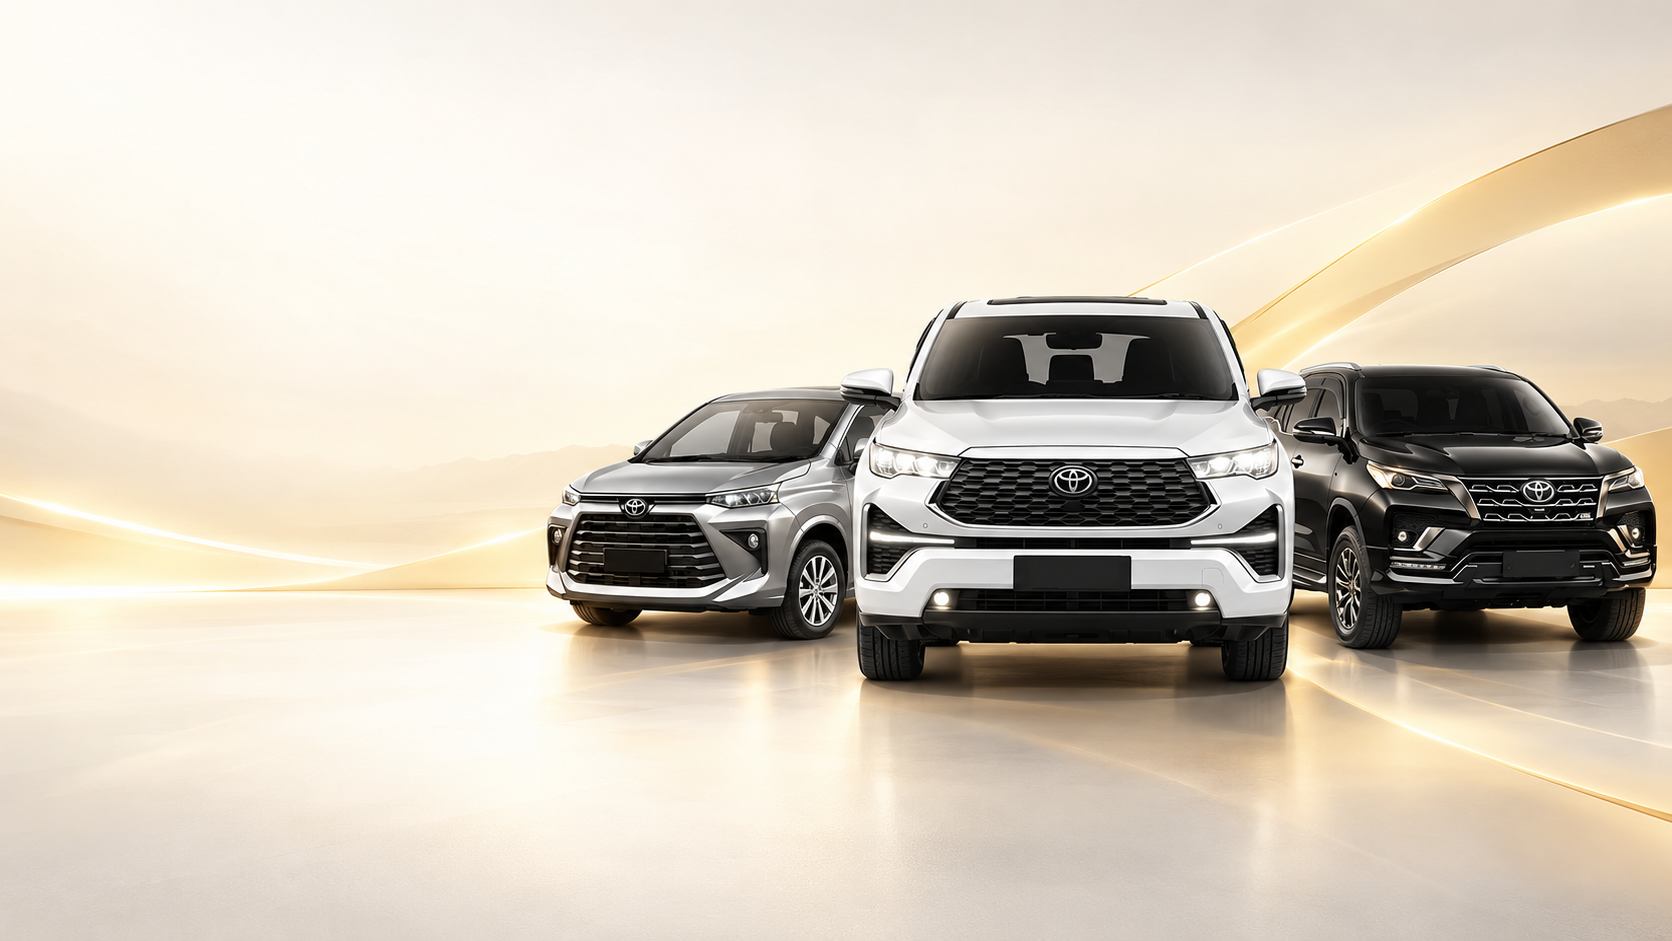
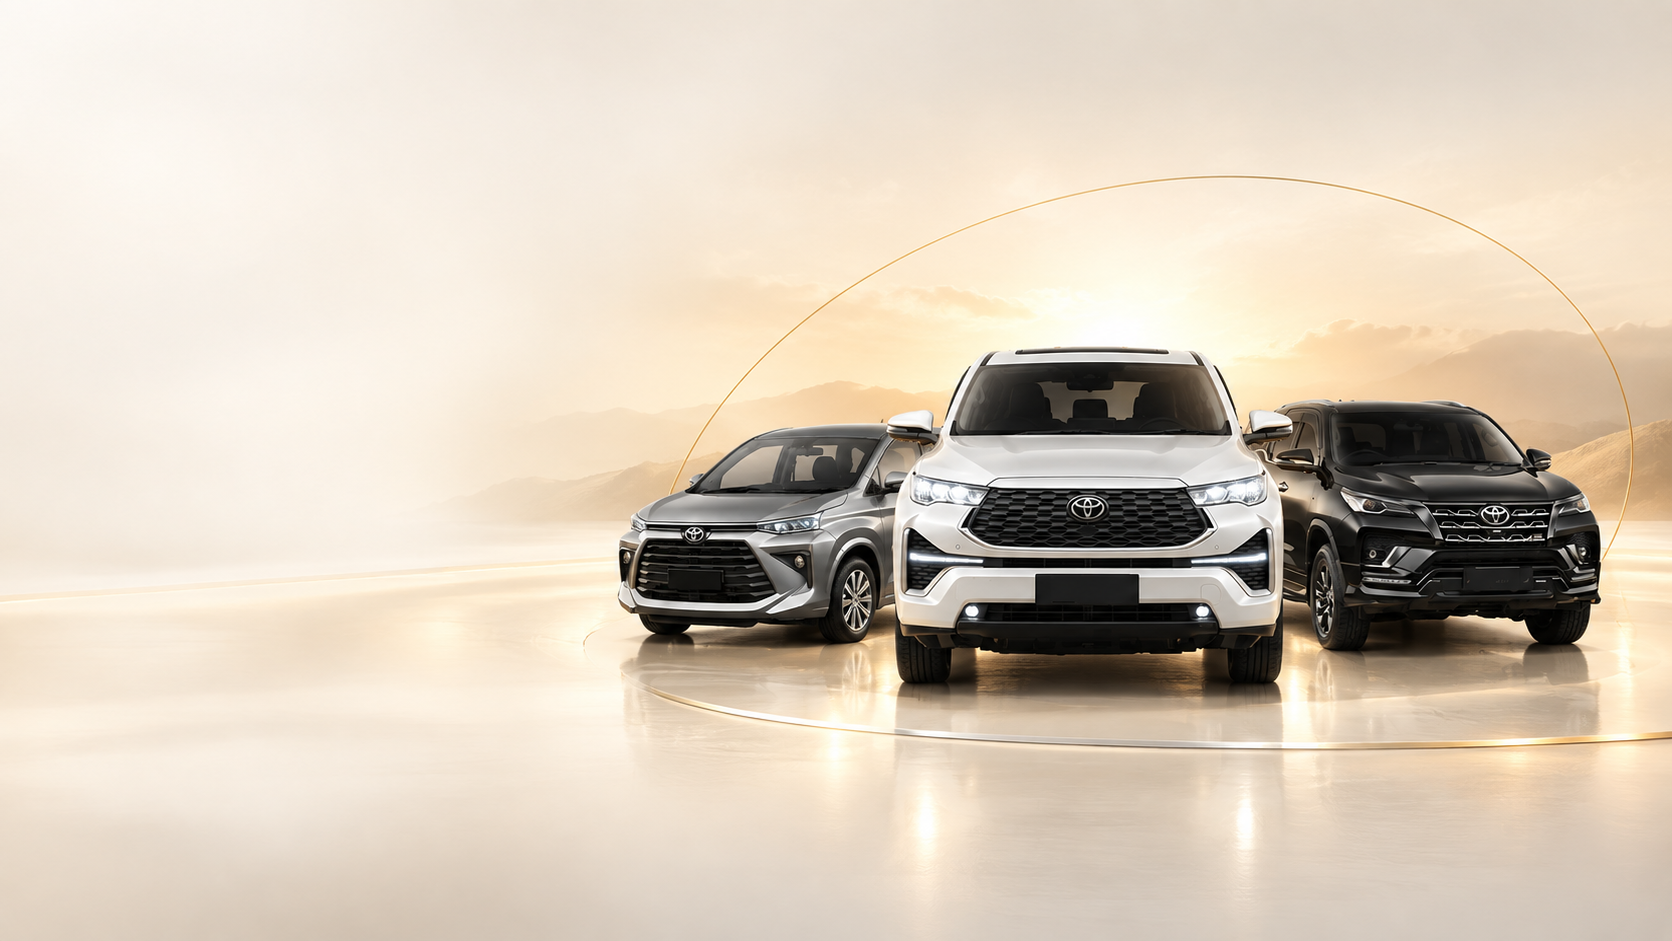
Update hero background images for desktop and mobile with refined halo composition

diff --git a/src/components/Hero.tsx b/src/components/Hero.tsx
@@ -2,79 +2,73 @@ import React from "react";
 
 export const Hero = () => {
   return (
-    <section className="bg-[#FBFAF7] border-b border-[#E8E4DB] relative overflow-hidden pt-8 pb-12 sm:pt-12 sm:pb-16 lg:py-16 xl:py-20">
-      <div className="max-w-7xl mx-auto px-5 sm:px-6 lg:px-8">
-        <div className="flex flex-col lg:flex-row items-center lg:items-end justify-between gap-8 sm:gap-10 lg:gap-8">
-          {/* Left Column: 43% on Desktop */}
-          <div className="w-full lg:w-[43%] shrink-0 text-left">
-            {/* Eyebrow */}
-            <p className="font-cinzel text-xs sm:text-sm font-bold tracking-widest text-[#B8892E] uppercase mb-3 sm:mb-4">
-              ZAHRAFFAMIRA RENTAL MOBIL
-            </p>
+    <section className="relative overflow-hidden bg-[#FBFAF7] border-b border-[#E8E4DB] min-h-[660px] sm:min-h-[720px] lg:min-h-[640px] xl:min-h-[720px] flex items-center">
+      {/* Responsive Background Images */}
+      <picture className="absolute inset-0 -z-10 w-full h-full pointer-events-none select-none">
+        <source media="(min-width: 1024px)" srcSet="/images/hero-bg-desktop.png" />
+        <img
+          src="/images/hero-bg-mobile.png"
+          alt="Armada ZAHRAFFAMIRA Rental Mobil Banjarmasin - Avanza, Innova Zenix, Fortuner"
+          className="w-full h-full object-cover object-top lg:object-center"
+          loading="eager"
+        />
+      </picture>
 
-            {/* Heading */}
-            <h1 className="font-manrope text-3xl sm:text-4xl lg:text-[40px] xl:text-[46px] font-extrabold text-[#171717] leading-[1.2] sm:leading-[1.18] tracking-tight mb-4 sm:mb-5">
-              Rental Mobil Banjarmasin{" "}
-              <span className="text-[#B8892E] block mt-1 sm:mt-1.5">
-                Nyaman untuk Setiap Perjalanan.
-              </span>
-            </h1>
+      {/* Subtle readability gradient overlays */}
+      {/* Desktop: Gentle fade on the left 48% to guarantee maximum text contrast */}
+      <div
+        className="absolute inset-0 -z-5 hidden lg:block bg-gradient-to-r from-[#FBFAF7]/92 via-[#FBFAF7]/50 to-transparent w-[48%] pointer-events-none"
+        aria-hidden="true"
+      />
+      {/* Mobile: Gentle fade on top 52% so headline and CTAs are crisp while cars below shine */}
+      <div
+        className="absolute inset-0 -z-5 lg:hidden bg-gradient-to-b from-[#FBFAF7]/92 via-[#FBFAF7]/70 to-transparent h-[52%] pointer-events-none"
+        aria-hidden="true"
+      />
 
-            {/* Description */}
-            <p className="font-manrope text-base sm:text-lg text-[#626262] leading-relaxed mb-6 sm:mb-8">
-              Pilihan armada nyaman dan terawat untuk perjalanan keluarga, bisnis, wisata, hingga rombongan.
-            </p>
+      <div className="container max-w-7xl mx-auto px-5 sm:px-6 lg:px-8 pt-8 pb-72 sm:pb-80 lg:py-20 relative z-10 w-full">
+        {/* Left Column: 43% on Desktop */}
+        <div className="w-full lg:w-[43%] xl:w-[42%] text-left">
+          {/* Eyebrow */}
+          <p className="font-cinzel text-xs sm:text-sm font-bold tracking-widest text-[#B8892E] uppercase mb-3 sm:mb-4">
+            ZAHRAFFAMIRA RENTAL MOBIL
+          </p>
 
-            {/* Buttons: Full width with 12px gap on mobile, inline on sm+ */}
-            <div className="flex flex-col sm:flex-row gap-3 w-full sm:w-auto">
-              <a
-                rel="noopener noreferrer"
-                target="_blank"
-                href="https://api.whatsapp.com/send/?phone=6281255964566&text=Halo+ZAHRAFFAMIRA+Rental+Mobil+Saya+ingin+pesan+rental+mobil&type=phone_number&app_absent=0"
-                className="w-full sm:w-auto text-center px-7 py-3.5 text-base font-semibold text-white bg-[#B8892E] hover:bg-[#9E7424] rounded-md transition-colors shadow-xs"
-              >
-                Pesan Sekarang
-              </a>
-              <a
-                href="#armada"
-                className="w-full sm:w-auto text-center px-7 py-3.5 text-base font-semibold rounded-md border border-[#171717] text-[#171717] hover:bg-[#F0EDE6] transition-colors"
-              >
-                Lihat Armada
-              </a>
-            </div>
+          {/* Heading */}
+          <h1 className="font-manrope text-3xl sm:text-4xl lg:text-[40px] xl:text-[46px] font-extrabold text-[#171717] leading-[1.2] sm:leading-[1.18] tracking-tight mb-4 sm:mb-5">
+            Rental Mobil Banjarmasin{" "}
+            <span className="text-[#B8892E] block mt-1 sm:mt-1.5">
+              Nyaman untuk Setiap Perjalanan.
+            </span>
+          </h1>
 
-            {/* Trust Indicators: Strictly placed before vehicle image on mobile */}
-            <p className="font-manrope text-xs sm:text-sm font-semibold text-[#171717] mt-6 sm:mt-8 tracking-wide">
-              Armada Terawat • Booking Mudah • Pelayanan Responsif
-            </p>
+          {/* Description */}
+          <p className="font-manrope text-base sm:text-lg text-[#626262] leading-relaxed mb-6 sm:mb-8 max-w-lg">
+            Pilihan armada nyaman dan terawat untuk perjalanan keluarga, bisnis, wisata, hingga rombongan.
+          </p>
+
+          {/* Buttons: Full width with 12px gap on mobile, inline on sm+ */}
+          <div className="flex flex-col sm:flex-row gap-3 w-full sm:w-auto">
+            <a
+              rel="noopener noreferrer"
+              target="_blank"
+              href="https://api.whatsapp.com/send/?phone=6281255964566&text=Halo+ZAHRAFFAMIRA+Rental+Mobil+Saya+ingin+pesan+rental+mobil&type=phone_number&app_absent=0"
+              className="w-full sm:w-auto text-center px-7 py-3.5 text-base font-semibold text-white bg-[#B8892E] hover:bg-[#9E7424] rounded-md transition-colors shadow-xs"
+            >
+              Pesan Sekarang
+            </a>
+            <a
+              href="#armada"
+              className="w-full sm:w-auto text-center px-7 py-3.5 text-base font-semibold rounded-md border border-[#171717] text-[#171717] bg-white/70 backdrop-blur-xs hover:bg-[#F0EDE6] transition-colors"
+            >
+              Lihat Armada
+            </a>
           </div>
 
-          {/* Right Column: 57% on Desktop (Appears below CTAs & Trust on mobile) */}
-          <div className="w-full lg:w-[57%] shrink-0 flex flex-col justify-end items-center lg:items-end relative mt-4 sm:mt-6 lg:mt-0">
-            {/* Subtle warm gold radial glow behind the vehicles */}
-            <div
-              className="absolute top-1/2 left-1/2 -translate-x-1/2 -translate-y-1/2 w-[85%] h-[85%] rounded-full bg-[radial-gradient(circle_at_center,rgba(184,137,46,0.12)_0%,rgba(184,137,46,0.03)_50%,transparent_70%)] pointer-events-none -z-10"
-              aria-hidden="true"
-            />
-
-            {/* Foreground Vehicle Image with Realistic Shadow */}
-            <div className="relative w-full max-w-lg sm:max-w-xl lg:max-w-none flex justify-center lg:justify-end">
-              <img
-                src="/images/hero-image_UQlab.webp"
-                alt="Armada ZAHRAFFAMIRA Rental Mobil Banjarmasin - Avanza, Innova Zenix, Fortuner"
-                title="Armada ZAHRAFFAMIRA Rental Mobil Banjarmasin"
-                width={1024}
-                height={400}
-                className="w-full h-auto object-contain select-none drop-shadow-[0_10px_15px_rgba(0,0,0,0.08)] transition-transform duration-500 hover:scale-[1.01]"
-              />
-
-              {/* Realistic contact shadow beneath tires */}
-              <div
-                className="absolute -bottom-2 left-1/2 -translate-x-1/2 w-[92%] h-4 bg-black/12 blur-md rounded-full pointer-events-none -z-5"
-                aria-hidden="true"
-              />
-            </div>
-          </div>
+          {/* Trust Indicators */}
+          <p className="font-manrope text-xs sm:text-sm font-semibold text-[#171717] mt-6 sm:mt-8 tracking-wide">
+            Armada Terawat • Booking Mudah • Pelayanan Responsif
+          </p>
         </div>
       </div>
     </section>
